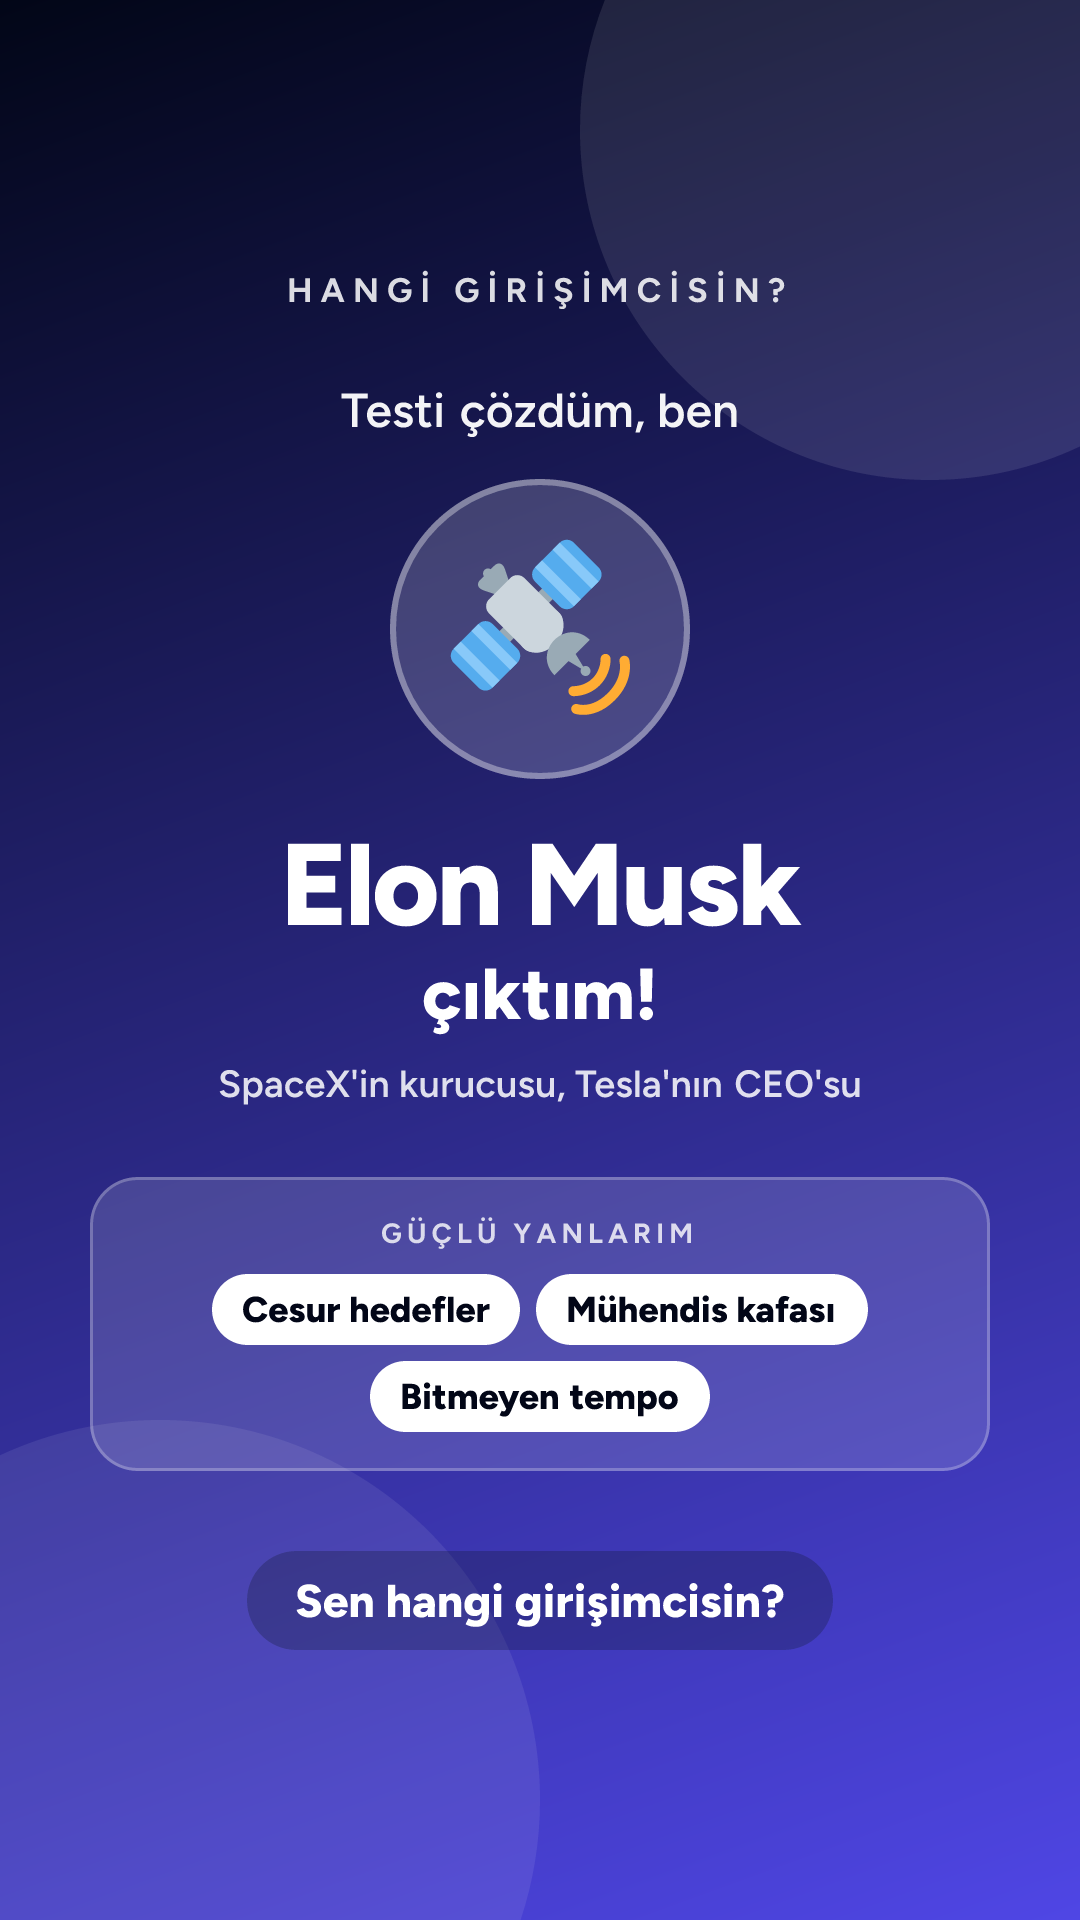
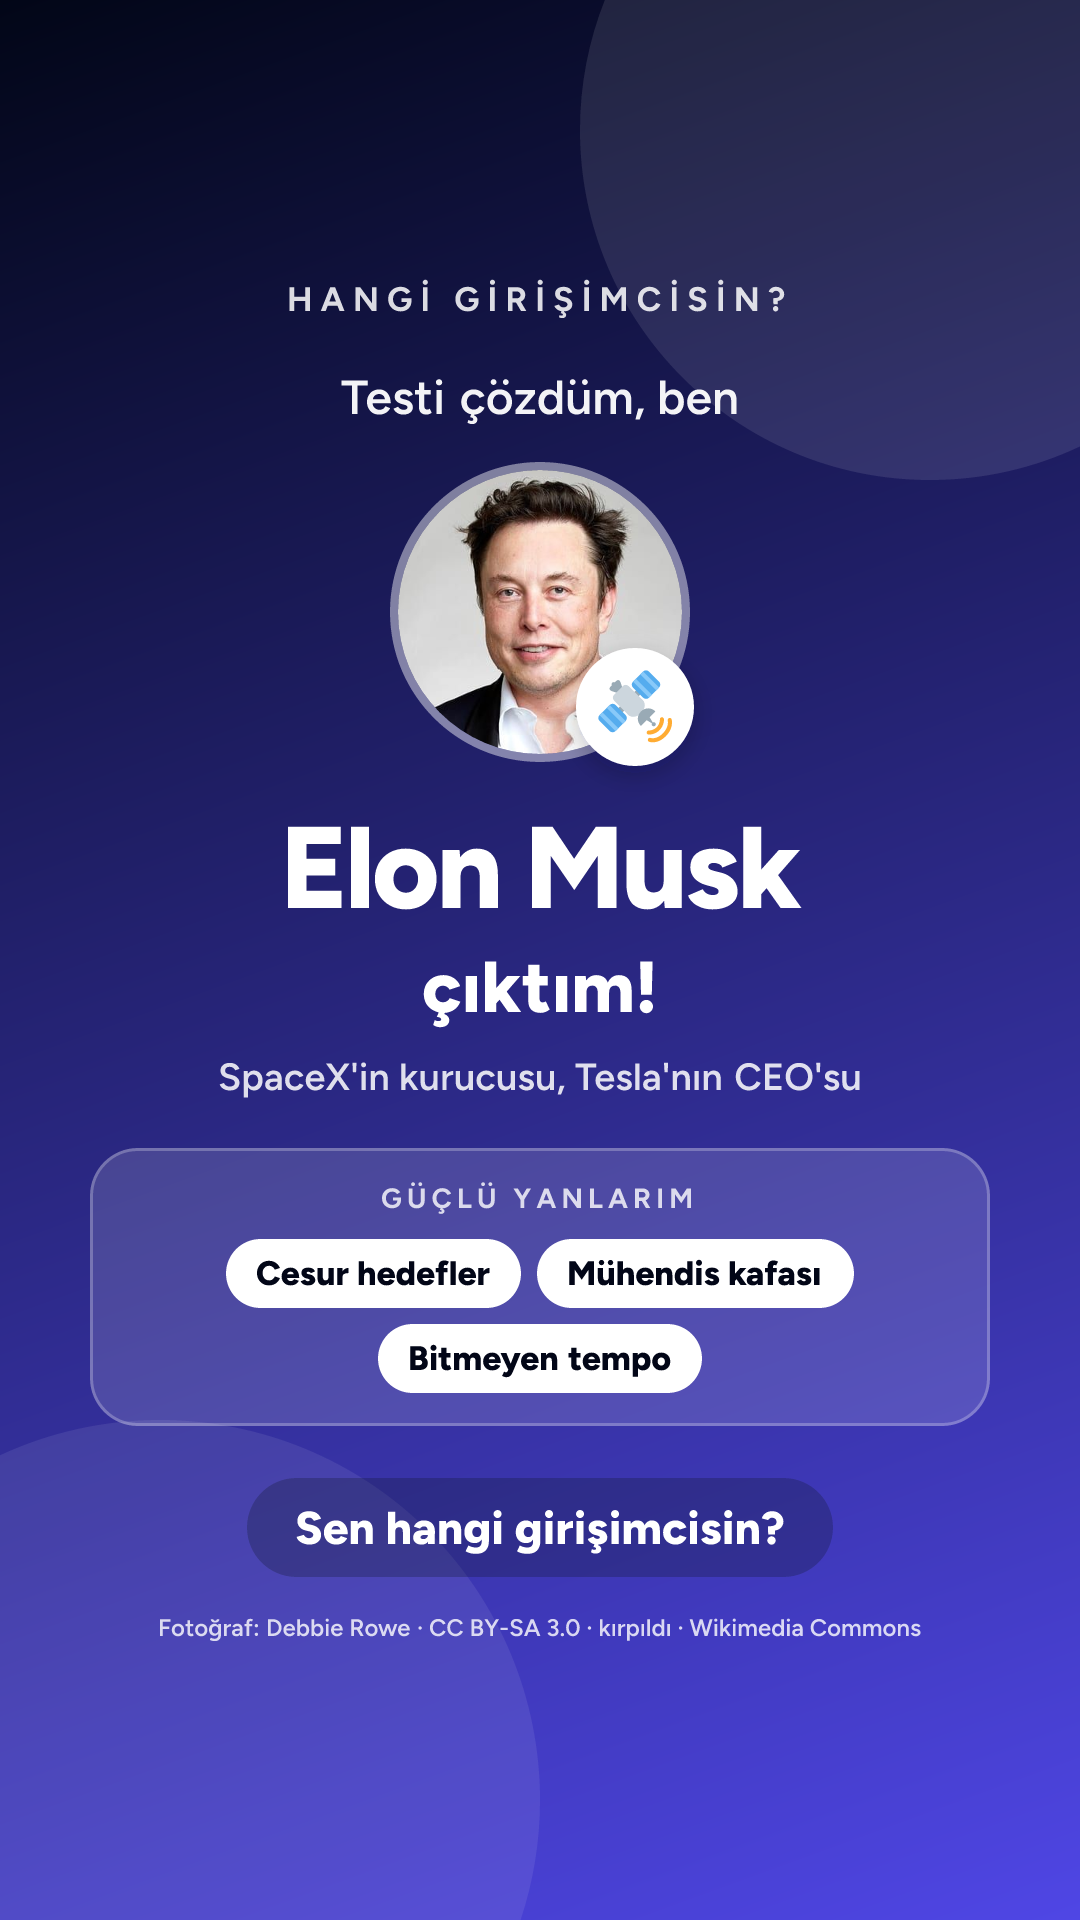
Hikâye görsellerine portre ve künye eklendi
Serbest lisanslı portre, künyesi görselin içinde. Sayfada görselin altında bağlantılı künye satırı.

diff --git a/jeff-bezos/index.html b/jeff-bezos/index.html
@@ -35,6 +35,7 @@
       <a href="instagram://story-camera">Instagram'ı aç →</a>
     </div>
     <img class="onizleme" src="hikaye.png" width="1080" height="1920" alt="Jeff Bezos — Instagram hikâye görseli">
+    <p class="kunye">Fotoğraf: <a href="https://commons.wikimedia.org/wiki/File:Jeff_Bezos_at_Amazon_Spheres_Grand_Opening_in_Seattle_-_2018_(39074799225)_(cropped).jpg" target="_blank" rel="noopener">Seattle City Council</a> · <a href="https://creativecommons.org/licenses/by/2.0/" target="_blank" rel="noopener">CC BY 2.0</a> · kırpıldı · <a href="https://commons.wikimedia.org/wiki/File:Jeff_Bezos_at_Amazon_Spheres_Grand_Opening_in_Seattle_-_2018_(39074799225)_(cropped).jpg" target="_blank" rel="noopener">Wikimedia Commons</a></p>
   </section>
 
   <section class="profil" id="profil" hidden>

diff --git a/elon-musk/index.html b/elon-musk/index.html
@@ -35,6 +35,7 @@
       <a href="instagram://story-camera">Instagram'ı aç →</a>
     </div>
     <img class="onizleme" src="hikaye.png" width="1080" height="1920" alt="Elon Musk — Instagram hikâye görseli">
+    <p class="kunye">Fotoğraf: <a href="https://commons.wikimedia.org/wiki/File:Elon_Musk_Royal_Society_(crop2).jpg" target="_blank" rel="noopener">Debbie Rowe</a> · <a href="https://creativecommons.org/licenses/by-sa/3.0/" target="_blank" rel="noopener">CC BY-SA 3.0</a> · kırpıldı · <a href="https://commons.wikimedia.org/wiki/File:Elon_Musk_Royal_Society_(crop2).jpg" target="_blank" rel="noopener">Wikimedia Commons</a></p>
   </section>
 
   <section class="profil" id="profil" hidden>

diff --git a/hanzade-dogan/index.html b/hanzade-dogan/index.html
@@ -35,6 +35,7 @@
       <a href="instagram://story-camera">Instagram'ı aç →</a>
     </div>
     <img class="onizleme" src="hikaye.png" width="1080" height="1920" alt="Hanzade Doğan Boyner — Instagram hikâye görseli">
+    <p class="kunye">Fotoğraf: <a href="https://commons.wikimedia.org/wiki/File:Hanzade_Dogan_Boyner.jpg" target="_blank" rel="noopener">Senesenevler</a> · <a href="https://creativecommons.org/licenses/by-sa/3.0/" target="_blank" rel="noopener">CC BY-SA 3.0</a> · kırpıldı · <a href="https://commons.wikimedia.org/wiki/File:Hanzade_Dogan_Boyner.jpg" target="_blank" rel="noopener">Wikimedia Commons</a></p>
   </section>
 
   <section class="profil" id="profil" hidden>

diff --git a/acun-ilicali/index.html b/acun-ilicali/index.html
@@ -35,6 +35,7 @@
       <a href="instagram://story-camera">Instagram'ı aç →</a>
     </div>
     <img class="onizleme" src="hikaye.png" width="1080" height="1920" alt="Acun Ilıcalı — Instagram hikâye görseli">
+    <p class="kunye">Fotoğraf: <a href="https://commons.wikimedia.org/wiki/File:AcunIl%C4%B1cal%C4%B1.jpg" target="_blank" rel="noopener">Serkan Yakın</a> · <a href="https://creativecommons.org/licenses/by-sa/3.0/" target="_blank" rel="noopener">CC BY-SA 3.0</a> · kırpıldı · <a href="https://commons.wikimedia.org/wiki/File:AcunIl%C4%B1cal%C4%B1.jpg" target="_blank" rel="noopener">Wikimedia Commons</a></p>
   </section>
 
   <section class="profil" id="profil" hidden>

diff --git a/demet-mutlu/index.html b/demet-mutlu/index.html
@@ -35,6 +35,7 @@
       <a href="instagram://story-camera">Instagram'ı aç →</a>
     </div>
     <img class="onizleme" src="hikaye.png" width="1080" height="1920" alt="Demet Mutlu — Instagram hikâye görseli">
+    <p class="kunye">Fotoğraf: <a href="https://commons.wikimedia.org/wiki/File:Demet_Mutlu_1080x1620.jpg" target="_blank" rel="noopener">Mavi Pot</a> · <a href="https://creativecommons.org/licenses/by-sa/4.0/" target="_blank" rel="noopener">CC BY-SA 4.0</a> · kırpıldı · <a href="https://commons.wikimedia.org/wiki/File:Demet_Mutlu_1080x1620.jpg" target="_blank" rel="noopener">Wikimedia Commons</a></p>
   </section>
 
   <section class="profil" id="profil" hidden>

diff --git a/mrbeast/index.html b/mrbeast/index.html
@@ -35,6 +35,7 @@
       <a href="instagram://story-camera">Instagram'ı aç →</a>
     </div>
     <img class="onizleme" src="hikaye.png" width="1080" height="1920" alt="MrBeast — Instagram hikâye görseli">
+    <p class="kunye">Fotoğraf: <a href="https://commons.wikimedia.org/wiki/File:MrBeast_2023_(cropped).jpg" target="_blank" rel="noopener">Steven Khan</a> · <a href="https://creativecommons.org/licenses/by/4.0/" target="_blank" rel="noopener">CC BY 4.0</a> · kırpıldı · <a href="https://commons.wikimedia.org/wiki/File:MrBeast_2023_(cropped).jpg" target="_blank" rel="noopener">Wikimedia Commons</a></p>
   </section>
 
   <section class="profil" id="profil" hidden>

diff --git a/nusret-gokce/index.html b/nusret-gokce/index.html
@@ -35,6 +35,7 @@
       <a href="instagram://story-camera">Instagram'ı aç →</a>
     </div>
     <img class="onizleme" src="hikaye.png" width="1080" height="1920" alt="Nusret Gökçe — Instagram hikâye görseli">
+    <p class="kunye">Fotoğraf: <a href="https://commons.wikimedia.org/wiki/File:Salt_Bae.png" target="_blank" rel="noopener">Terron F. Beckham</a> · <a href="https://creativecommons.org/licenses/by/3.0/" target="_blank" rel="noopener">CC BY 3.0</a> · kırpıldı · <a href="https://commons.wikimedia.org/wiki/File:Salt_Bae.png" target="_blank" rel="noopener">Wikimedia Commons</a></p>
   </section>
 
   <section class="profil" id="profil" hidden>

diff --git a/walt-disney/index.html b/walt-disney/index.html
@@ -35,6 +35,7 @@
       <a href="instagram://story-camera">Instagram'ı aç →</a>
     </div>
     <img class="onizleme" src="hikaye.png" width="1080" height="1920" alt="Walt Disney — Instagram hikâye görseli">
+    <p class="kunye">Fotoğraf: <a href="https://commons.wikimedia.org/wiki/File:Walt_Disney_1946.JPG" target="_blank" rel="noopener">Boy Scouts of America</a> · Kamu malı · kırpıldı · <a href="https://commons.wikimedia.org/wiki/File:Walt_Disney_1946.JPG" target="_blank" rel="noopener">Wikimedia Commons</a></p>
   </section>
 
   <section class="profil" id="profil" hidden>

diff --git a/coco-chanel/index.html b/coco-chanel/index.html
@@ -35,6 +35,7 @@
       <a href="instagram://story-camera">Instagram'ı aç →</a>
     </div>
     <img class="onizleme" src="hikaye.png" width="1080" height="1920" alt="Coco Chanel — Instagram hikâye görseli">
+    <p class="kunye">Fotoğraf: Kamu malı · kırpıldı · <a href="https://commons.wikimedia.org/wiki/File:Gabrielle_Chanel_en_marini%C3%A8re.jpg" target="_blank" rel="noopener">Wikimedia Commons</a></p>
   </section>
 
   <section class="profil" id="profil" hidden>

diff --git a/stil.css b/stil.css
@@ -87,6 +87,9 @@ main { max-width: 460px; margin: 0 auto; padding: 24px 16px 40px; }
 .btn + .btn { margin-top: 10px; }
 .btn:active { transform: scale(.98); }
 
+.kunye { margin: 10px 0 0; font-size: 11px; line-height: 1.5; color: #94a3b8; }
+.kunye a { color: inherit; text-decoration: underline dotted; text-underline-offset: 2px; }
+
 .ipucu {
   margin-top: 14px;
   padding: 14px;

diff --git a/kofteci-yusuf/index.html b/kofteci-yusuf/index.html
@@ -35,6 +35,7 @@
       <a href="instagram://story-camera">Instagram'ı aç →</a>
     </div>
     <img class="onizleme" src="hikaye.png" width="1080" height="1920" alt="Köfteci Yusuf — Instagram hikâye görseli">
+    
   </section>
 
   <section class="profil" id="profil" hidden>
